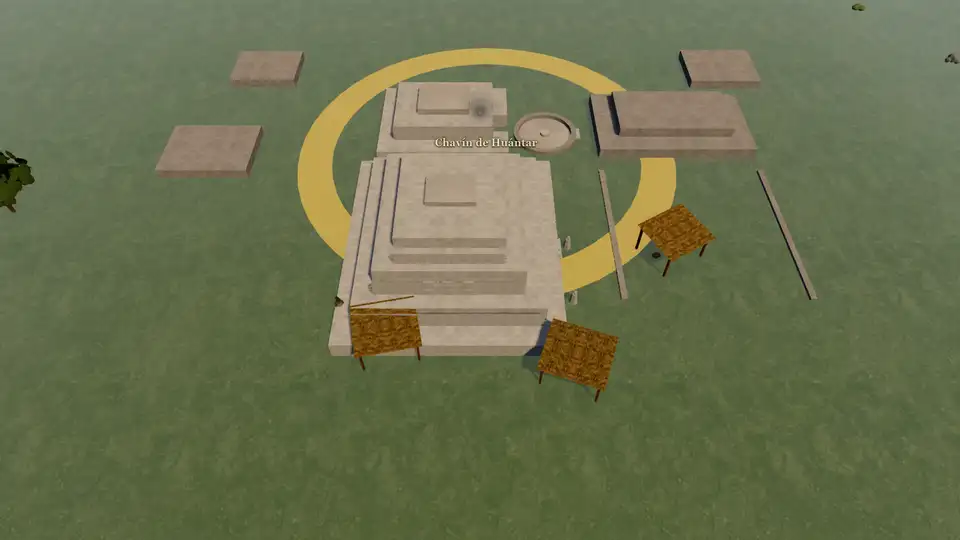
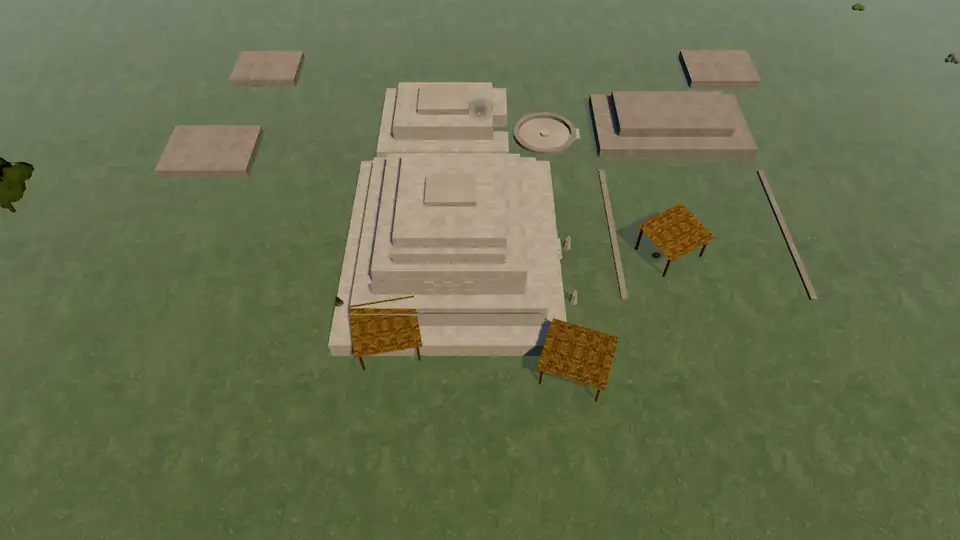
docs(provenance): record the recaptured card sizes and hide the chavin chrome

diff --git a/PROVENANCE.md b/PROVENANCE.md
@@ -409,7 +409,9 @@ slot is absent (offline / without assets).
 
 ### Lima 1821 intro and epilogue images (in-engine recreations)
 
-- **Location**: `public/media/lima-1821/intro-{plaza,callao,epilogo}.webp` (640×360, WebP q28).
+- **Location**: `public/media/lima-1821/intro-{plaza,callao,epilogo}.webp` (960×540, WebP q58, 15–60 KB each, world labels
+  hidden). The cards were 640×360 WebP q28 until #680: the chapter card already names the place, and the half-size
+  cards read soft next to the rest of the set (+0.47 MB of `dist/`, ADR 0009).
 - **Source**: captured from the game itself by `scripts/capture_independencia_arc.mjs` on the 1821 Lima
   coast transect: the Lurín road and patriot camp, the Plaza Mayor, the Callao beach and a low epilogue.
   Rendered without the HUD at 1600×900 and resized with `sharp`. Regenerate with
@@ -424,7 +426,9 @@ slot is absent (offline / without assets).
 
 ### Real Felipe intro and epilogue images (in-engine recreations)
 
-- **Location**: `public/media/real-felipe/intro-{bastion,baterias,epilogo}.webp` (640×360, WebP q28).
+- **Location**: `public/media/real-felipe/intro-{bastion,baterias,epilogo}.webp` (960×540, WebP q58, 15–60 KB each, world labels
+  hidden). The cards were 640×360 WebP q28 until #680: the chapter card already names the place, and the half-size
+  cards read soft next to the rest of the set (+0.47 MB of `dist/`, ADR 0009).
 - **Source**: captured from the game itself by `scripts/capture_independencia_arc.mjs` on the Callao
   terrace: the bastion from the sea side, the battery line, the siege camp and a low epilogue. Rendered
   without the HUD at 1600×900 and resized with `sharp`. Regenerate with
@@ -788,7 +792,9 @@ slot is absent (offline / without assets).
 
 ### Tarapacá, Miraflores and La Breña intro/epilogue images (in-engine recreations)
 
-- **Location**: `public/media/{tarapaca,miraflores,brena}/intro-*.webp` (640×360, WebP q28).
+- **Location**: `public/media/{tarapaca,miraflores,brena}/intro-*.webp` (960×540, WebP q58, 15–60 KB each, world labels
+  hidden). The cards were 640×360 WebP q28 until #680: the chapter card already names the place, and the half-size
+  cards read soft next to the rest of the set (+0.47 MB of `dist/`, ADR 0009).
 - **Source**: captured from the game itself by `scripts/capture_republica_arc.mjs` on the Republic
   missions: the Tarapacá quebrada, the Miraflores redoubt line, the Mantaro valley and the Huamachuco
   heights. Rendered without the HUD at 1600×900 and resized with `sharp`. Regenerate with
@@ -818,7 +824,9 @@ slot is absent (offline / without assets).
 
 ### Cusco 1536 and Vilcabamba intro/epilogue images (in-engine recreations)
 
-- **Location**: `public/media/{cusco-1536,vilcabamba}/intro-*.webp` (640×360, WebP q28).
+- **Location**: `public/media/{cusco-1536,vilcabamba}/intro-*.webp` (960×540, WebP q58, 15–60 KB each, world labels
+  hidden). The cards were 640×360 WebP q28 until #680: the chapter card already names the place, and the half-size
+  cards read soft next to the rest of the set (+0.47 MB of `dist/`, ADR 0009).
 - **Source**: captured from the game itself by `scripts/capture_virreinato_arc.mjs` on the 1536 Cusco
   and 1572 Vilcabamba transects: the Inca plaza and Sacsayhuamán, the cloud-forest fort and the escape
   road. Rendered without the HUD at 1600×900 and resized with `sharp`. Regenerate with
@@ -1189,7 +1197,8 @@ slot is absent (offline / without assets).
 - **Review state**: every piece and capture starts `reviewed: false`; a human review must record
   `reviewer` and `reviewedAt` in the manifests before the Art gate is Met.
 - **Captures**: `public/media/chavin/intro-{templo,nuevo,declive}.webp`, generated from
-  the running game by `scripts/capture_chavin_intro.mjs` (1600×900, resized to 800×450 WebP). They are
+  the running game by `scripts/capture_chavin_intro.mjs` (1600×900, resized to 960×540 WebP q58 with the world
+  labels hidden; 800×450 q35 until #680). They are
   in-engine recreations, **never historical photographs**; they are used by the narrated intro, the
   chapter cards and the epilogue.
 - **Historical caveat**: representative centre, not a survey. Roofs, heights, the exact construction
